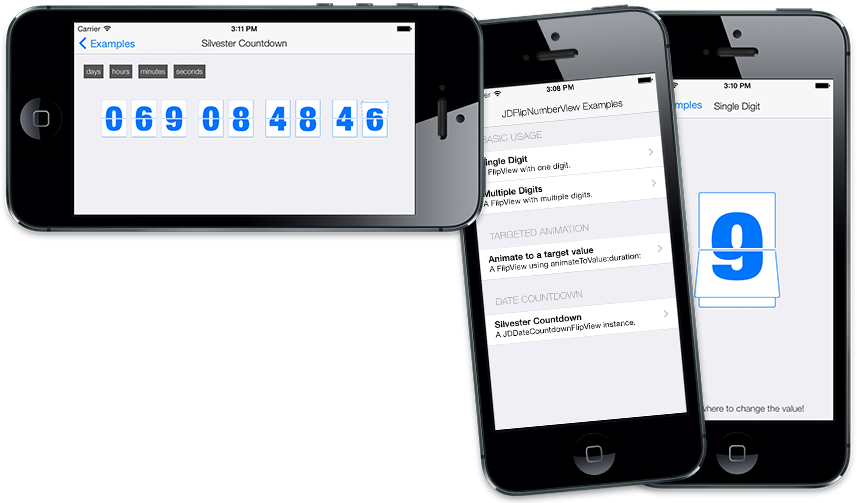
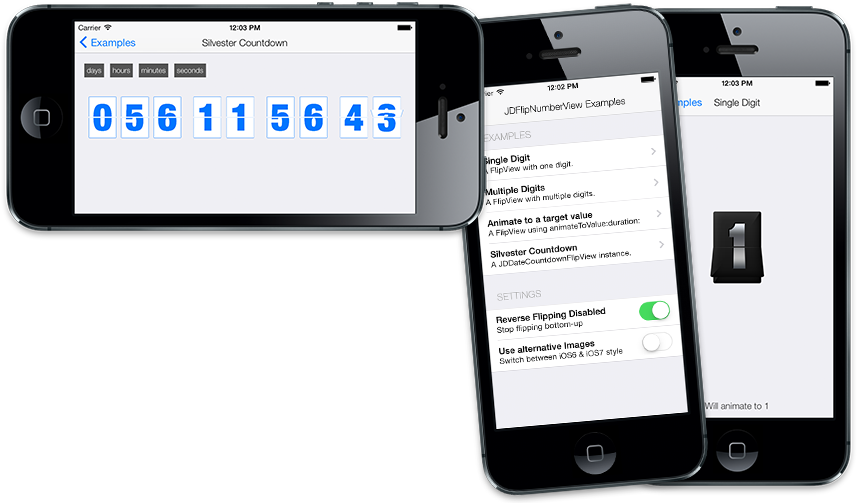
added example option to use alternative images

diff --git a/ExampleProject/FlipNumberViewExample/FVEDetailViewController.m b/ExampleProject/FlipNumberViewExample/FVEDetailViewController.m
@@ -20,9 +20,6 @@ static CGFloat const FVEDetailControllerTargetedViewTag = 111;
 @property (nonatomic) NSIndexPath *indexPath;
 @property (nonatomic) UILabel *infoLabel;
 @property (nonatomic) NSString *imageBundleName;
-- (void)showSingleDigit;
-- (void)showMultipleDigits;
-- (void)showDateCountdown;
 @end
 
 @implementation FVEDetailViewController
@@ -59,29 +56,33 @@ static CGFloat const FVEDetailControllerTargetedViewTag = 111;
     self.infoLabel.backgroundColor = [UIColor clearColor];
     self.infoLabel.textAlignment = UITextAlignmentCenter;
     [self.view addSubview: self.infoLabel];
-        
-    // add gesture recognizer
-    if (self.indexPath.section != 2) {
-        self.infoLabel.text = @"Tap anywhere to change the value!";
-        [self.view addGestureRecognizer:[[UITapGestureRecognizer alloc] initWithTarget:self action:@selector(viewTapped:)]];
-    }
     
     // setup flip number view style
     if ([[[UIDevice currentDevice] systemVersion] floatValue] < 7.0) {
-        self.imageBundleName = @"JDFlipNumberViewIOS6";
+        self.imageBundleName = self.useAlternativeImages ? nil : @"JDFlipNumberViewIOS6";
+    } else {
+        self.imageBundleName = self.useAlternativeImages ? @"JDFlipNumberViewIOS6" : nil;
     }
     
     // show flipNumberView
-    if (self.indexPath.section == 0) {
-        if (self.indexPath.row == 0) {
-            [self showSingleDigit];
-        } else {
-            [self showMultipleDigits];
-        }
-    } else if (self.indexPath.section == 1) {
+    BOOL addGestureRecognizer = YES;
+    NSInteger row = self.indexPath.row;
+    if (row == 0) {
+        [self showSingleDigit];
+    } else if (row == 1) {
         [self showMultipleDigits];
-    } else {
+    }  else if (row == 2) {
+        [self showTargetedAnimation];
+    }  else if (row == 3) {
         [self showDateCountdown];
+        addGestureRecognizer = NO;
+    }
+    
+    // add gesture recognizer
+    if (addGestureRecognizer) {
+        self.infoLabel.text = @"Tap anywhere to change the value!";
+        [self.view addGestureRecognizer:[[UITapGestureRecognizer alloc]
+                                         initWithTarget:self action:@selector(viewTapped:)]];
     }
 }
 
@@ -97,32 +98,33 @@ static CGFloat const FVEDetailControllerTargetedViewTag = 111;
 
 - (void)showMultipleDigits;
 {
-    JDFlipNumberView *flipView = nil;
+    JDFlipNumberView *flipView = [[JDFlipNumberView alloc] initWithDigitCount:3 imageBundleName:self.imageBundleName];
+    flipView.value = 32;
+    flipView.maximumValue = 128;
+    flipView.reverseFlippingDisabled = [self isReverseFlippingDisabled];
+    [flipView animateDownWithTimeInterval:0.3];
+    [self.view addSubview: flipView];
+    self.flipView = flipView;
+}
+
+- (void)showTargetedAnimation;
+{
+    JDFlipNumberView *flipView  = [[JDFlipNumberView alloc] initWithDigitCount:5 imageBundleName:self.imageBundleName];
+    flipView.value = 2300;
+    flipView.tag = FVEDetailControllerTargetedViewTag;
+    flipView.reverseFlippingDisabled = [self isReverseFlippingDisabled];
     
-    if (self.indexPath.section == 0) {
-        flipView = [[JDFlipNumberView alloc] initWithDigitCount:3 imageBundleName:self.imageBundleName];
-        flipView.value = 32;
-        flipView.maximumValue = 128;
-        flipView.reverseFlippingDisabled = [self isReverseFlippingDisabled];
-        [flipView animateDownWithTimeInterval:0.3];
-    } else {
-        flipView = [[JDFlipNumberView alloc] initWithDigitCount:5 imageBundleName:self.imageBundleName];
-        flipView.value = 2300;
-        flipView.tag = FVEDetailControllerTargetedViewTag;
-        flipView.reverseFlippingDisabled = [self isReverseFlippingDisabled];
-        
-        NSInteger targetValue = 9250;
-        NSDate *startDate = [NSDate date];
-        [flipView animateToValue:targetValue duration:2.50 completion:^(BOOL finished) {
-            if (finished) {
-                NSLog(@"Animation needed: %.2f seconds", [[NSDate date] timeIntervalSinceDate:startDate]);
-            } else {
-                NSLog(@"Animation canceled after: %.2f seconds", [[NSDate date] timeIntervalSinceDate:startDate]);
-            }
-            [self flipNumberView:flipView didChangeValueAnimated:finished];
-        }];
-        [self flipNumberView:flipView willChangeToValue:targetValue];
-    }
+    NSInteger targetValue = 9250;
+    NSDate *startDate = [NSDate date];
+    [flipView animateToValue:targetValue duration:2.50 completion:^(BOOL finished) {
+        if (finished) {
+            NSLog(@"Animation needed: %.2f seconds", [[NSDate date] timeIntervalSinceDate:startDate]);
+        } else {
+            NSLog(@"Animation canceled after: %.2f seconds", [[NSDate date] timeIntervalSinceDate:startDate]);
+        }
+        [self flipNumberView:flipView didChangeValueAnimated:finished];
+    }];
+    [self flipNumberView:flipView willChangeToValue:targetValue];
     
     [self.view addSubview: flipView];
     self.flipView = flipView;

diff --git a/ExampleProject/FlipNumberViewExample/FVEViewController.m b/ExampleProject/FlipNumberViewExample/FVEViewController.m
@@ -12,7 +12,7 @@
 #import "FVEViewController.h"
 
 @interface FVEViewController ()
-
+@property (nonatomic, assign) BOOL useAlternativeImages;
 @end
 
 @implementation FVEViewController
@@ -32,11 +32,6 @@
         }
     }
     return self;
-}
-
-- (NSInteger)numberOfSectionsInTableView:(UITableView *)tableView
-{
-    return 4;
 }
 
 - (CGFloat)tableView:(UITableView *)tableView heightForHeaderInSection:(NSInteger)section;
@@ -70,10 +65,8 @@
     }
     
     // set text
-    NSString* text = @"Basic usage";
-    if (section==1) text = @"Targeted animation";
-    if (section==2) text = @"Date Countdown";
-    if (section==3) text = @"Settings";
+    NSString* text = @"Examples";
+    if (section==1) text = @"Settings";
     label.text = [text uppercaseString];
     
     // position label
@@ -93,9 +86,14 @@
     return view;
 }
 
+- (NSInteger)numberOfSectionsInTableView:(UITableView *)tableView
+{
+    return 2;
+}
+
 - (NSInteger)tableView:(UITableView *)tableView numberOfRowsInSection:(NSInteger)section
 {
-    return (section==0) ? 2 : 1;
+    return (section==0) ? 4 : 2;
 }
 
 - (UITableViewCell*)tableView:(UITableView *)tableView cellForRowAtIndexPath:(NSIndexPath *)indexPath
@@ -118,21 +116,31 @@
         } else if (indexPath.row == 1) {
             cell.textLabel.text = @"Multiple Digits";
             cell.detailTextLabel.text = @"A FlipView with multiple digits.";
+        } else if (indexPath.row == 2) {
+            cell.textLabel.text = @"Animate to a target value";
+            cell.detailTextLabel.text = @"A FlipView using animateToValue:duration:";
+        } else if (indexPath.row == 3) {
+            cell.textLabel.text = @"Silvester Countdown";
+            cell.detailTextLabel.text = @"A JDDateCountdownFlipView instance.";
         }
-    } else if (indexPath.section == 1) {
-        cell.textLabel.text = @"Animate to a target value";
-        cell.detailTextLabel.text = @"A FlipView using animateToValue:duration:";
-    } else if (indexPath.section == 2) {
-        cell.textLabel.text = @"Silvester Countdown";
-        cell.detailTextLabel.text = @"A JDDateCountdownFlipView instance.";
     } else {
-        cell.textLabel.text = @"Reverse Flipping Disabled";
-        cell.detailTextLabel.text = @"Stop flipping bottom-up";
-        cell.selectionStyle = UITableViewCellSelectionStyleNone;
-        UISwitch *aSwitch = [[UISwitch alloc] init];
-        [aSwitch addTarget:self action:@selector(switchTouched:) forControlEvents:UIControlEventValueChanged];
-        aSwitch.on = [[NSUserDefaults standardUserDefaults] boolForKey:@"reverseFlippingDisabled"];
-        cell.accessoryView = aSwitch;
+        if (indexPath.row == 0) {
+            cell.textLabel.text = @"Reverse Flipping Disabled";
+            cell.detailTextLabel.text = @"Stop flipping bottom-up";
+            cell.selectionStyle = UITableViewCellSelectionStyleNone;
+            UISwitch *aSwitch = [[UISwitch alloc] init];
+            [aSwitch addTarget:self action:@selector(switchTouched:) forControlEvents:UIControlEventValueChanged];
+            aSwitch.on = [[NSUserDefaults standardUserDefaults] boolForKey:@"reverseFlippingDisabled"];
+            cell.accessoryView = aSwitch;
+        } else {
+            cell.textLabel.text = @"Use alternative Images";
+            cell.detailTextLabel.text = @"Switch between iOS6 & iOS7 style";
+            cell.selectionStyle = UITableViewCellSelectionStyleNone;
+            UISwitch *aSwitch = [[UISwitch alloc] init];
+            [aSwitch addTarget:self action:@selector(styleSwitchTouched:) forControlEvents:UIControlEventValueChanged];
+            aSwitch.on = self.useAlternativeImages;
+            cell.accessoryView = aSwitch;
+        }
     }
     
     return cell;
@@ -140,7 +148,7 @@
 
 - (void)tableView:(UITableView *)tableView didSelectRowAtIndexPath:(NSIndexPath *)indexPath
 {
-    if (indexPath.section == 3) {
+    if (indexPath.section == 1) {
         UISwitch *aSwitch = (UISwitch *)[[tableView cellForRowAtIndexPath:indexPath] accessoryView];
         [aSwitch setOn:!aSwitch.on animated:YES];
         [self switchTouched:aSwitch];
@@ -148,6 +156,7 @@
     }
     
     FVEDetailViewController* viewController = [[FVEDetailViewController alloc] initWithIndexPath:indexPath];
+    viewController.useAlternativeImages = self.useAlternativeImages;
     viewController.title = [tableView cellForRowAtIndexPath:indexPath].textLabel.text;
     [self.navigationController pushViewController: viewController animated: YES];
     
@@ -158,6 +167,11 @@
 {
     [[NSUserDefaults standardUserDefaults] setBool:sender.on forKey:@"reverseFlippingDisabled"];
     [[NSUserDefaults standardUserDefaults] synchronize];
+}
+
+- (void)styleSwitchTouched:(UISwitch*)sender;
+{
+    self.useAlternativeImages = sender.on;
 }
 
 - (BOOL)shouldAutorotateToInterfaceOrientation:(UIInterfaceOrientation)toInterfaceOrientation

diff --git a/ExampleProject/FlipNumberViewExample/FVEDetailViewController.h b/ExampleProject/FlipNumberViewExample/FVEDetailViewController.h
@@ -9,5 +9,6 @@
 
 
 @interface FVEDetailViewController : UIViewController
+@property (nonatomic, assign) BOOL useAlternativeImages;
 - (id)initWithIndexPath:(NSIndexPath*)indexPath;
 @end
